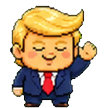
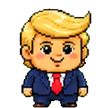
feat(character): Wave hello, and give Trump a talk cycle that talks
A new Wave Primitive, with optional art that falls back to idle, lets a
Behavior play a greeting gesture. Trump's talk frames were a wave, and
his talking frames sat in idle; both move to where they belong, and
greet waves, talks, then waves.

diff --git a/crates/core/src/character.rs b/crates/core/src/character.rs
@@ -174,10 +174,13 @@ pub enum Primitive {
     /// velocity and nothing more. `Falling` carries the arc and the existing
     /// landing path ends it, so a jump reuses the Throw's physics.
     Jump,
+    /// A greeting gesture. Optional art: a Character that draws no `wave`
+    /// waves in its `idle`, so the Required Animation Set stays at nine.
+    Wave,
 }
 
 /// Every Primitive by the name a Character Manifest writes.
-const PRIMITIVES: [(&str, Primitive); 10] = [
+const PRIMITIVES: [(&str, Primitive); 11] = [
     ("idle", Primitive::Idle),
     ("walk", Primitive::Walk),
     ("land", Primitive::Land),
@@ -188,6 +191,7 @@ const PRIMITIVES: [(&str, Primitive); 10] = [
     ("hold", Primitive::Hold),
     ("chase", Primitive::Chase),
     ("jump", Primitive::Jump),
+    ("wave", Primitive::Wave),
 ];
 
 /// A named frame sequence and how it plays.
@@ -442,12 +446,13 @@ impl Character {
 
 /// Optional Animations, and what draws when a package does not declare them:
 /// used when present, and absent silently, never as a missing sprite.
-const OPTIONAL_FALLBACKS: [(&str, &str); 3] = [
+const OPTIONAL_FALLBACKS: [(&str, &str); 4] = [
     ("climb", "walk"),
     ("grab", "fall"),
     // The Required Animation Set is closed at nine, so a jump is optional art.
     // A Character without it rises and falls in its `fall`.
     ("jump", "fall"),
+    ("wave", "idle"),
 ];
 
 /// How many Behaviors of a loop a rejection spells out before it stops.
@@ -1204,6 +1209,39 @@ mod tests {
         assert_eq!(
             character.draw("jump", 0, 0, 1.0).expect("draws").animation,
             "jump"
+        );
+    }
+
+    /// Wave art is optional too. A Character without it waves in its `idle`.
+    #[test]
+    fn wave_is_optional_and_falls_back_to_idle() {
+        let character = load_manifest(&declaring(&REQUIRED_ANIMATIONS)).expect("loads");
+        assert_eq!(
+            character.draw("wave", 0, 0, 1.0).expect("draws").animation,
+            "idle"
+        );
+
+        let drawn = format!(
+            "{}[animations.wave]\nframes = [\"idle-0.png\"]\n",
+            declaring(&REQUIRED_ANIMATIONS)
+        );
+        let character = load_manifest(&drawn).expect("loads");
+        assert_eq!(
+            character.draw("wave", 0, 0, 1.0).expect("draws").animation,
+            "wave"
+        );
+    }
+
+    #[test]
+    fn a_behavior_may_play_wave() {
+        let manifest = format!(
+            "{}[behaviors.greet]\nplay = [\"wave\", \"talk\", \"wave\"]\n",
+            declaring(&REQUIRED_ANIMATIONS)
+        );
+        let character = load_manifest(&manifest).expect("wave is a Primitive");
+        assert_eq!(
+            character.behaviors["greet"].primitives,
+            vec![Primitive::Wave, Primitive::Talk, Primitive::Wave]
         );
     }
 

diff --git a/crates/core/src/engine.rs b/crates/core/src/engine.rs
@@ -1525,7 +1525,7 @@ impl Engine {
     fn permitted(&self, primitives: &[Primitive]) -> bool {
         let on_feet = matches!(self.state, State::Grounded | State::Perched);
         primitives.iter().all(|primitive| match primitive {
-            Primitive::React | Primitive::Talk => true,
+            Primitive::React | Primitive::Talk | Primitive::Wave => true,
             Primitive::Walk | Primitive::Chase => {
                 on_feet && self.poke_cooldown_ms == 0 && !self.feet_held
             }
@@ -1575,6 +1575,9 @@ fn animation_of(primitive: Primitive) -> &'static str {
         // Optional art: the renderer resolves it to `fall` when a package
         // draws none, so the required set stays at nine (ADR-0007).
         Primitive::Jump => "jump",
+        // Optional art: the renderer resolves it to `idle` when a package
+        // draws none.
+        Primitive::Wave => "wave",
     }
 }
 
@@ -6938,6 +6941,17 @@ mod tests {
     #[test]
     fn a_jump_asks_for_optional_jump_art() {
         assert_eq!(animation_of(Primitive::Jump), "jump");
+    }
+
+    #[test]
+    fn a_wave_asks_for_optional_wave_art_and_needs_no_footing() {
+        assert_eq!(animation_of(Primitive::Wave), "wave");
+        let engine = Engine::new(Point { x: 100.0, y: 0.0 });
+        assert_eq!(engine.state, State::Falling, "mid-air to begin with");
+        assert!(
+            engine.permitted(&[Primitive::Wave]),
+            "a wave is an expression, like talk"
+        );
     }
 
     /// The sprite already walks off a window edge, so it may jump off one too.

diff --git a/crates/core/src/character/manifest.rs b/crates/core/src/character/manifest.rs
@@ -676,7 +676,7 @@ mod tests {
             errors,
             vec![
                 "behavior \"greet\" declares \"pounce\", which is not a Primitive; \
-                 the Primitives are idle, walk, land, sit, sleep, react, talk, hold, chase, jump"
+                 the Primitives are idle, walk, land, sit, sleep, react, talk, hold, chase, jump, wave"
                     .to_string()
             ],
             "the author is told the offending word and what they may write instead"
@@ -879,13 +879,13 @@ mod tests {
                  as then = \"settle\""
                     .to_string(),
                 "behavior \"pounce\" declares 7, which is not a Primitive; the Primitives \
-                 are idle, walk, land, sit, sleep, react, talk, hold, chase, jump"
+                 are idle, walk, land, sit, sleep, react, talk, hold, chase, jump, wave"
                     .to_string(),
                 "when for behavior \"pounce\" is 6, which is not a condition; a condition \
                  reads \"idle over 2m\", \"idle under 30s\" or \"app Safari\""
                     .to_string(),
                 "behavior \"фыр\" declares [], which is not a Primitive; the Primitives \
-                 are idle, walk, land, sit, sleep, react, talk, hold, chase, jump"
+                 are idle, walk, land, sit, sleep, react, talk, hold, chase, jump, wave"
                     .to_string(),
             ],
             "each nonsense declaration is rejected by name, saying what is wrong"

diff --git a/scripts/generate-readme-gifs.py b/scripts/generate-readme-gifs.py
@@ -32,7 +32,7 @@ SHOWCASES = (
     ("nim-sleep.gif", "nim", "sleep", 4, 3),
     # Permission granted by MekaRamen (Yeoh Kher En) to publish (#388).
     ("timber-wolf-walk.gif", "timber-wolf", "walk", 20, 8),
-    ("trump-talk.gif", "trump", "talk", 3, 4),
+    ("trump-talk.gif", "trump", "talk", 4, 5),
 )
 
 

diff --git a/docs/DEVELOPMENT.md b/docs/DEVELOPMENT.md
@@ -221,13 +221,14 @@ A Character Manifest is at most 1 MiB. A package is at most 64 MiB, 4096 files, 
 
 #### Animations
 
-Every Character supplies these nine: `idle`, `walk`, `fall`, `land`, `sit`, `sleep`, `react`, `talk`, and `hold`. The Engine also asks for three optional ones, and draws a stand-in when a package omits them:
+Every Character supplies these nine: `idle`, `walk`, `fall`, `land`, `sit`, `sleep`, `react`, `talk`, and `hold`. The Engine also asks for four optional ones, and draws a stand-in when a package omits them:
 
 | Animation | Plays when | Without it |
 |---|---|---|
 | `grab` | The user drags the sprite | `fall` |
 | `climb` | The sprite climbs | `walk` |
 | `jump` | A Behavior plays the `jump` Primitive | `fall` |
+| `wave` | A Behavior plays the `wave` Primitive | `idle` |
 
 Any other name draws only as a Variant or a Left Strip of one of these.
 
@@ -267,6 +268,7 @@ The Primitives, and the Animation each plays:
 | `idle`, `walk`, `land`, `sit`, `sleep`, `react`, `talk`, `hold` | The Animation of the same name |
 | `chase` | `walk`, steered toward the cursor's x along the ground |
 | `jump` | `jump`, or `fall` without it |
+| `wave` | `wave`, or `idle` without it |
 
 `when` takes one of three forms. A duration is a whole number followed by `s` or `m`.
 
